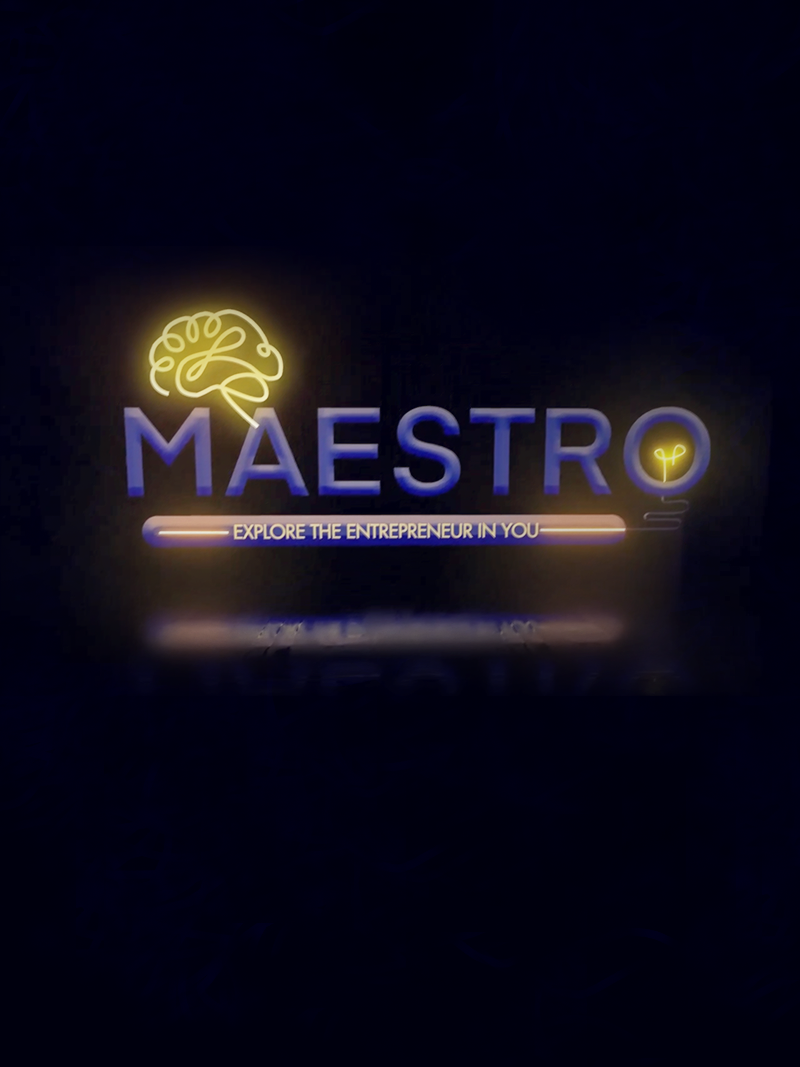
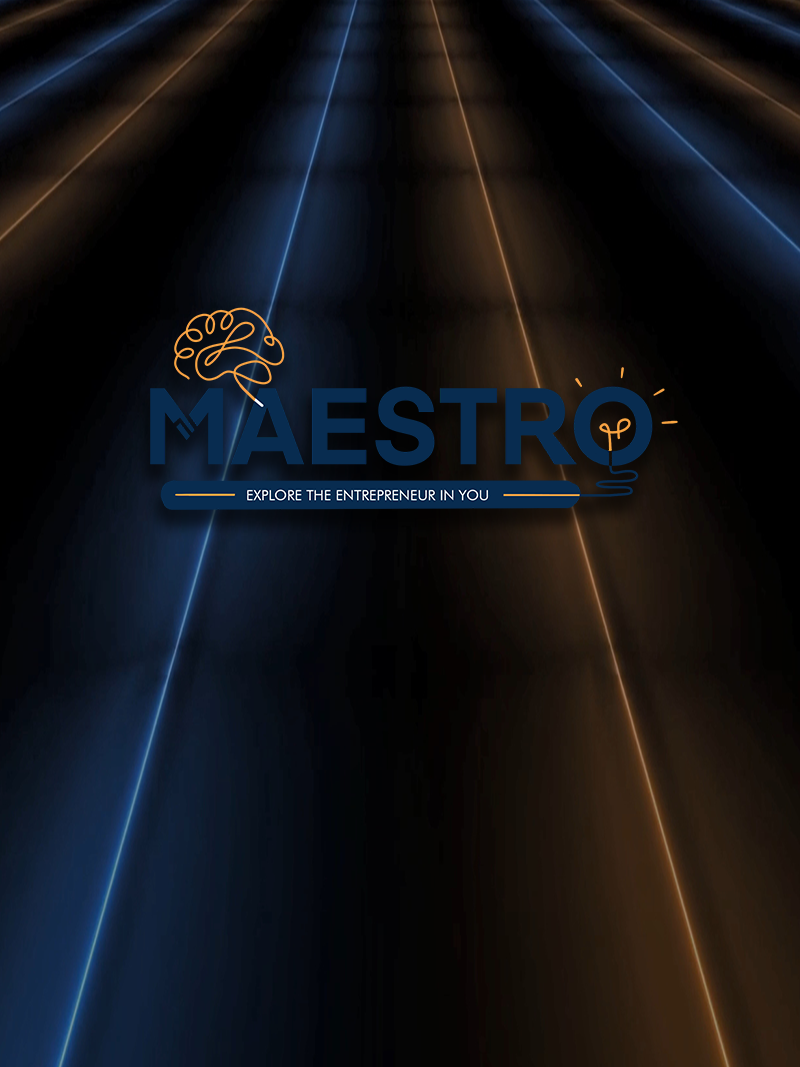
Mobile background updated

diff --git a/assets/css/style.css b/assets/css/style.css
@@ -535,7 +535,7 @@ h1, h2, h3, h4, h5, h6 {
     #hero{
       background: url("../img/bg/mob-background.png");
       background-repeat: no-repeat;
-      background-size:contain;
+      background-size:cover;
       background-position: center;
       height:70vh;
     
